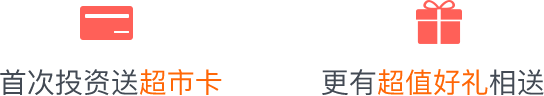
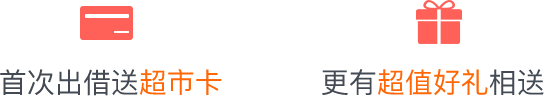
更换wap注册投资页图片
Summary: 更换wap注册投资页图片

Test Plan: - 首页注册图片更换

Reviewers: modi, zhangna

Subscribers: zhusikun

Maniphest Tasks: T6679

Differential Revision: https://dx.wangcaigu.cn/D4737

Changed region(s): [[0.0938, 0.7188, 0.2188, 1.0]]

diff --git a/view/themes/ctcf_new/m/views/site/index171028.php b/view/themes/ctcf_new/m/views/site/index171028.php
@@ -214,7 +214,7 @@ $this->registerJsFile(FE_BASE_URI . 'libs/swiper/swiper-3.4.2.min.js', ['depends
 	<div class="newbid-box" style="display:none">
 		<div class="newbid-insideBox">
             <img  class="newbid-insideBox-topPic" alt="" src="<?= ASSETS_BASE_URI ?>ctcf/images/new-homepage/pic_newbid_top.png">
-			<img src="<?= ASSETS_BASE_URI ?>ctcf/images/new-homepage/pic_newbid_new.png?v=1.0" class="newbid-insideBox-pic">
+			<img src="<?= ASSETS_BASE_URI ?>ctcf/images/new-homepage/pic_newbid_new.png?v=1.1" class="newbid-insideBox-pic">
 			<a href="/site/signup" class="newbid-insideBox-register">注册</a>
 			<a href="/site/login" class="newbid-insideBox-login">登录</a>
 		</div>
